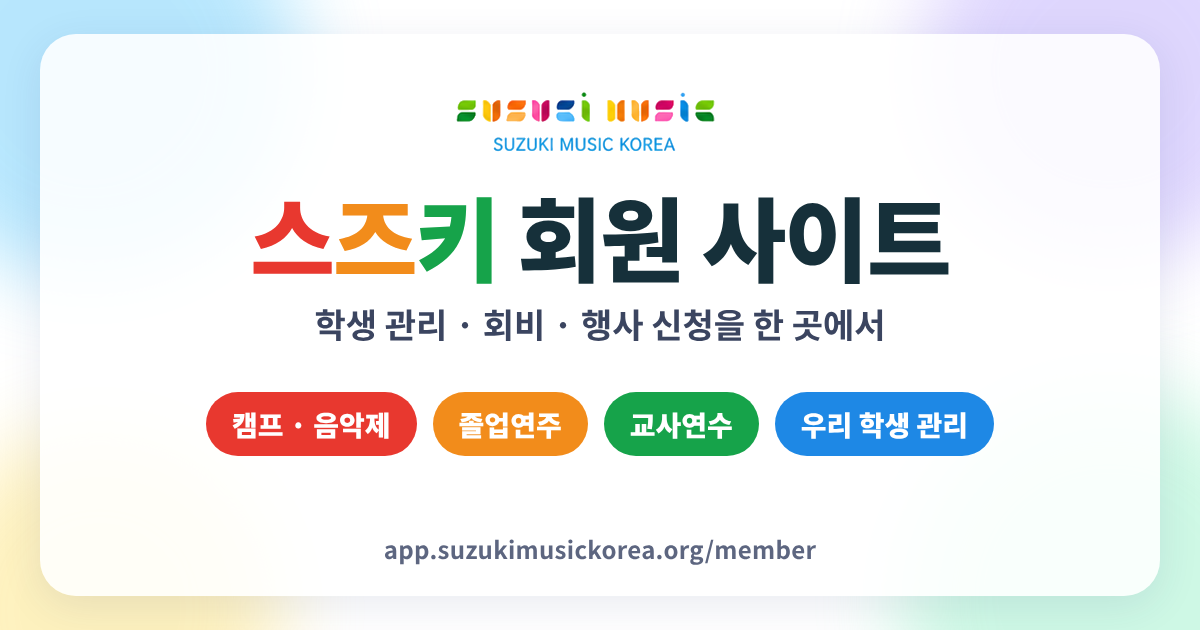
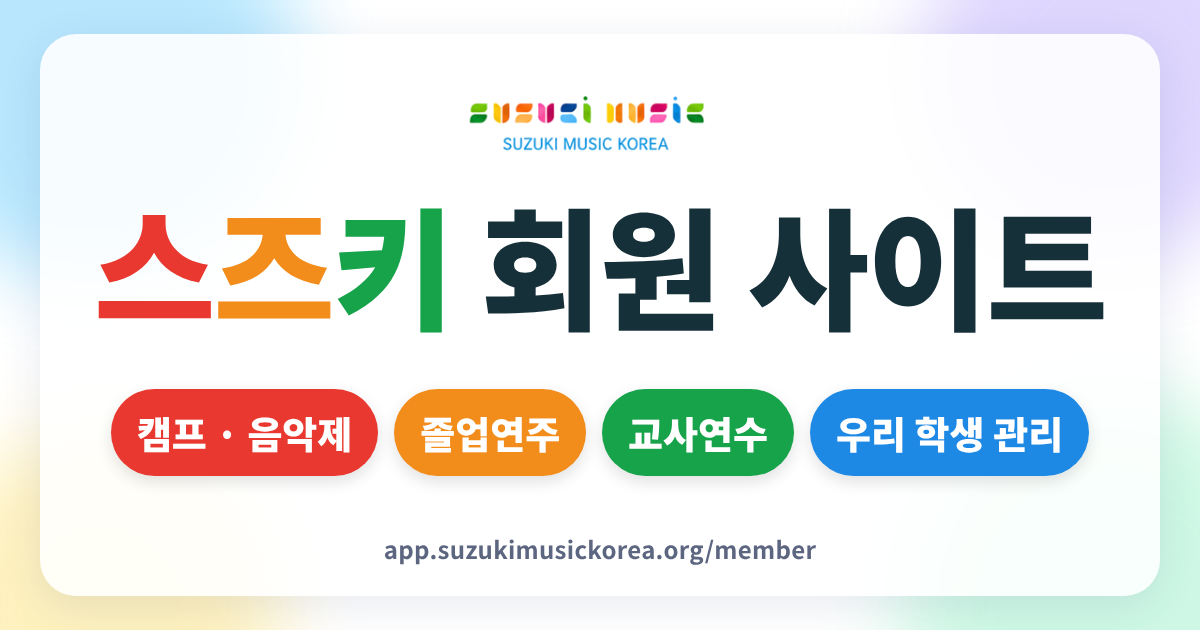
회원 사이트 공유 그림: 제목 크게 · 설명 문장 빼고 버튼 4개 크게 (v=2)
Claude-Session: https://claude.ai/code/session_019BVA4J87hJCKdzCvUo2y86

Changed region(s): [[0.0617, 0.3016, 0.925, 0.5429], [0.0925, 0.6032, 0.925, 0.754], [0.37, 0.1508, 0.6167, 0.2413]]

diff --git a/member/index.html b/member/index.html
@@ -20,7 +20,7 @@
 <meta property="og:description" content="학생 관리 · 회비 · 주소록을 한 곳에서
 캠프 · 졸업연주 · 교사연수 신청까지 한 번에">
 <meta property="og:url" content="https://app.suzukimusickorea.org/member/">
-<meta property="og:image" content="https://app.suzukimusickorea.org/member/og.png?v=1">
+<meta property="og:image" content="https://app.suzukimusickorea.org/member/og.png?v=2">
 <meta property="og:image:width" content="1200">
 <meta property="og:image:height" content="630">
 <meta name="twitter:card" content="summary_large_image">
